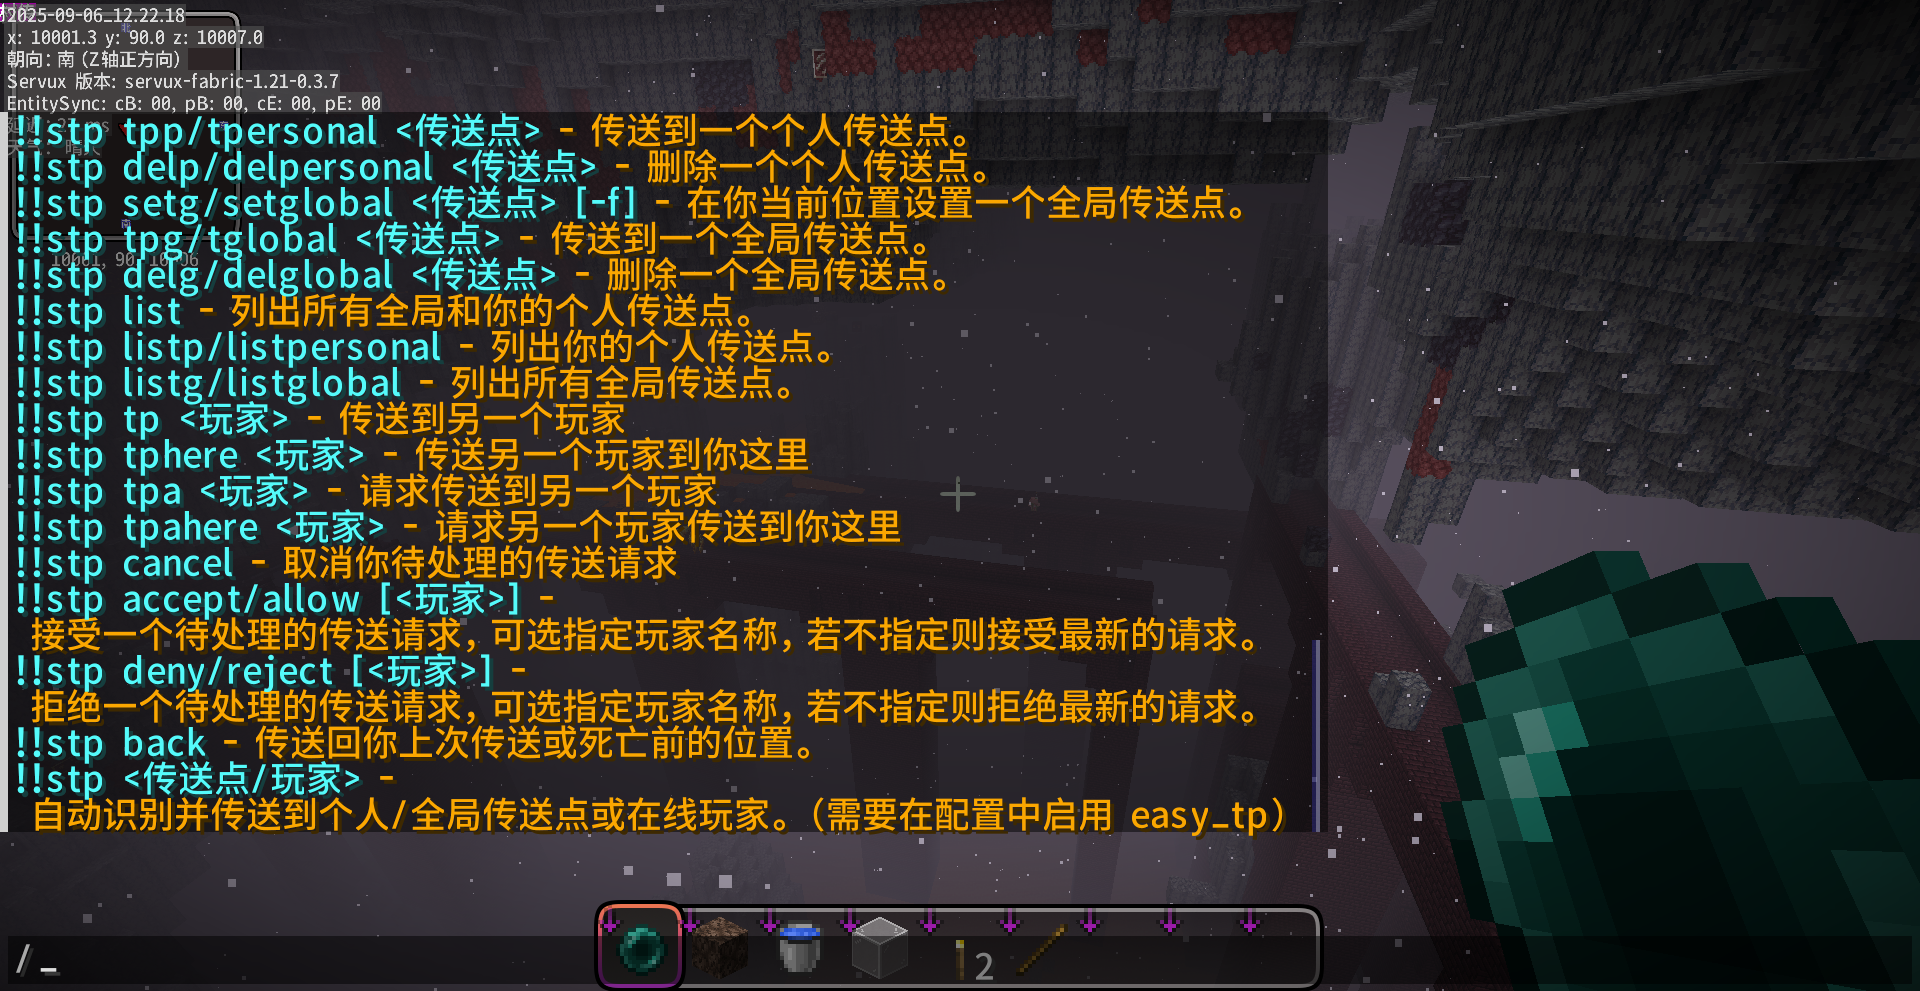
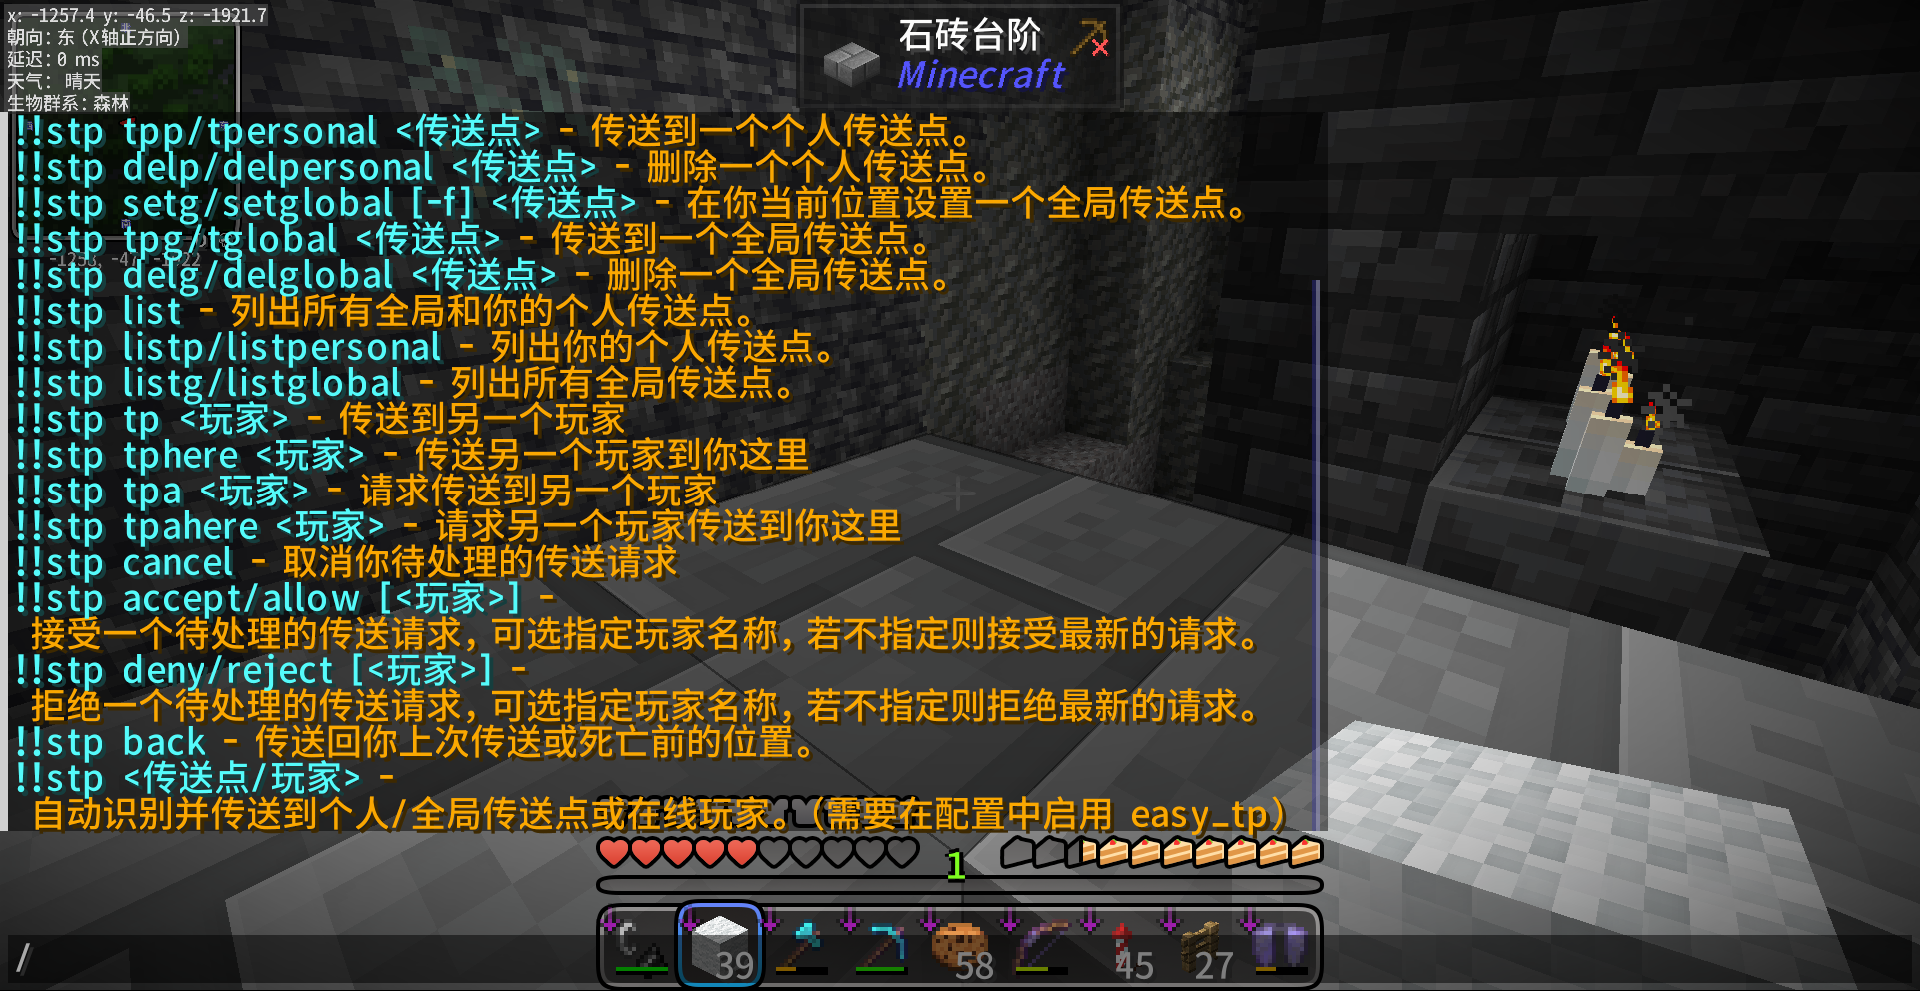
fix: 参数提示错误

diff --git a/README.md b/README.md
@@ -4,11 +4,6 @@
 A simple teleportation plugin designed to create waypoints and implement the teleportation features of EssentialsX.
 
 ## Preview
-<!-- ![Teleport Button](image/README/1754197051138.png)
-![Delete Button](image/README/1754125441339.png)
-![Death Return](image/README/1754197144539.png)
-![Teleport Request](image/README/1754733917600.png)
-![Teleport Deal](image/README/1754733952187.png) -->
 ![help](image/README/1757133291389.png)
 ![list](image/README/1757133317304.png)
 ![back](image/README/1757133375310.png)
